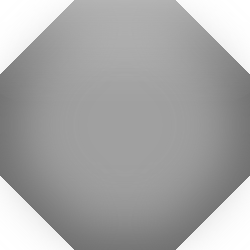
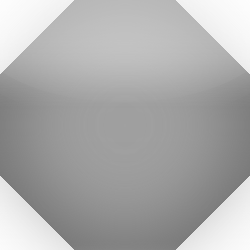
animation by founded word is OK!

Changed region(s): [[0.672, 0.112, 1.0, 0.336], [0.0, 0.112, 0.308, 0.336]]

diff --git a/FindHiddenWords/PlaySerchingWords.swift b/FindHiddenWords/PlaySerchingWords.swift
@@ -541,69 +541,29 @@ class PlaySearchingWords: SKScene, TableViewDelegate {
         switch type {
         case .WordIsOK:
             var waiting: Double = 0
-            let center = CGPoint(x: GV.actWidth / 2, y: GV.actHeight / 2)
+//            let center = CGPoint(x: GV.actWidth / 2, y: GV.actHeight / 2)
             var origPositions = [CGPoint]()
             for usedLetter in newWord.usedLetters {
-                cellsToAnimate.append(GV.gameArray[usedLetter.col][usedLetter.row].copyMe())
+                cellsToAnimate.append(GV.gameArray[usedLetter.col][usedLetter.row]/*.copyMe()*/)
                 origPositions.append(GV.gameArray[usedLetter.col][usedLetter.row].position)
             }
-            for (index, cell) in cellsToAnimate.enumerated() {
+            for cell in cellsToAnimate {
                 cell.setStatus(toStatus: .GoldStatus)
                 myActions.removeAll()
-                gameLayer.addChild(cell)
-                let path = UIBezierPath()
-                path.move(to: origPositions[index])
-                path.addLine(to: CGPoint(x: GV.playingGrid!.frame.midX, y: GV.playingGrid!.frame.minY))
-                path.addArc(withCenter: center,
-                            radius: GV.playingGrid!.frame.width / 2, startAngle: GV.radian(0), endAngle: GV.radian(360), clockwise: true)
-                path.addLine(to: origPositions[index])
-                let action = SKAction.follow(path.cgPath, asOffset: true, orientToPath: false, speed: 1000)
                 myActions.append(SKAction.wait(forDuration: waiting))
-                waiting += 1.0
-                myActions.append(action)
-                myActions.append(SKAction.removeFromParent())
-                let sequence = SKAction.sequence(myActions)
-                cell.zPosition = 100
-                cell.run(sequence)
-            }
-
-/*
-        case .WordIsOK:
-            for usedLetter in newWord.usedLetters {
-                cellsToAnimate.append(GV.gameArray[usedLetter.col][usedLetter.row].copyMe())
-            }
-            var newBlockSize = GV.blockSize
-            var wordSize = CGFloat(0)
-            repeat {
-                wordSize = CGFloat(cellsToAnimate.count) * newBlockSize * 1.3
-                if wordSize > (GV.actWidth * 0.6) {
-                    newBlockSize *= 0.95
-                }
-            } while wordSize > (GV.actWidth * 0.6)
-            for cell in cellsToAnimate {
-                cell.size = CGSize(width: newBlockSize, height: newBlockSize)
-            }
-            let firstPositionX = (GV.actWidth - wordSize) * 0.5
-            let fixPositionY = GV.playingGrid!.frame.maxY + newBlockSize
-
-            for (index, cell) in cellsToAnimate.enumerated() {
-                myActions.removeAll()
-                gameLayer.addChild(cell)
-                cell.setStatus(toStatus: .WholeWord)
-                let toPosition = GV.playingGrid!.gridPosition(col: cell.col, row: cell.row) + GV.playingGrid!.position
-                cell.position = toPosition
-                myActions.append(SKAction.move(to: CGPoint(x: firstPositionX + CGFloat(index) * newBlockSize * 1.3, y: fixPositionY), duration: 0.8))
-                myActions.append(SKAction.scale(by: 1.2, duration: 0.5))
-                myActions.append(SKAction.scale(by: 0.8, duration: 0.5))
-                myActions.append(SKAction.scale(by: 1.2, duration: 0.5))
-                myActions.append(SKAction.fadeOut(withDuration: 0.2))
-                myActions.append(SKAction.move(to: GV.playingGrid!.gridPosition(col: cell.col, row: cell.row) , duration: 0.2))
-                myActions.append(SKAction.removeFromParent())
-                cell.zPosition = 100
+                waiting += 0.5
+                myActions.append(SKAction.run {
+                    cell.setStatus(toStatus: .Lila)
+                })
+                myActions.append(SKAction.scale(by: 1.25, duration: 0.8))
+                myActions.append(SKAction.scale(by: 0.8, duration: 0.8))
+                myActions.append(SKAction.run {
+                    cell.setStatus(toStatus: .WholeWord)
+                })
                 let sequence = SKAction.sequence(myActions)
                 cell.run(sequence)
             }
-*/
+
         case .NoSuchWord:
             for item in newWord.usedLetters {
                 cellsToAnimate.append(GV.gameArray[item.col][item.row])

diff --git a/FindHiddenWords/GameBoardItem.swift b/FindHiddenWords/GameBoardItem.swift
@@ -10,7 +10,7 @@ import Foundation
 import GameplayKit
 
 enum ItemStatus: Int {
-    case Empty = 0, Temporary, Used, WholeWord, FixUsed, FixWholeWord, FixItem, Error, DarkGreenStatus, GoldStatus, DarkGoldStatus, OrigStatus
+    case Empty = 0, Temporary, Used, WholeWord, FixUsed, FixWholeWord, FixItem, Error, DarkGreenStatus, GoldStatus, DarkGoldStatus, OrigStatus, Lila
     var description: String {
         return String(self.rawValue)
     }
@@ -85,7 +85,8 @@ class GameboardItem: SKSpriteNode {
          StatusType(itemStatus: .GoldStatus, fixItem: false) : "GoldOctagon", //"GoldSprite",
          StatusType(itemStatus: .GoldStatus, fixItem: true) : "GoldOctagon", //"GoldSprite",
          StatusType(itemStatus: .DarkGoldStatus, fixItem: false) : "DarkGoldSprite",
-         StatusType(itemStatus: .DarkGoldStatus, fixItem: true) : "DarkGoldSprite"]
+         StatusType(itemStatus: .DarkGoldStatus, fixItem: true) : "DarkGoldSprite",
+         StatusType(itemStatus: .Lila, fixItem: false): "LilaOctagon"]
 
     public var letter = emptyLetter
     private var fontSize: CGFloat = 0
